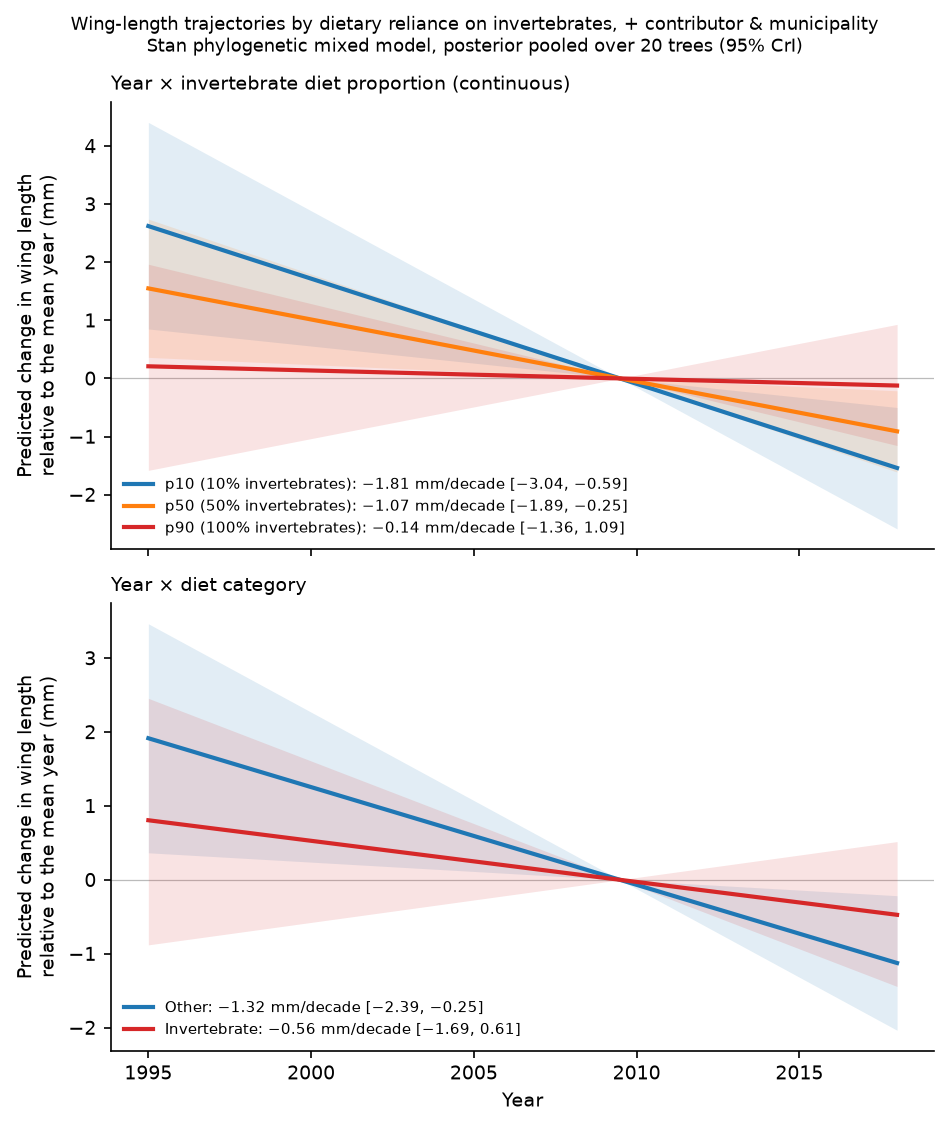
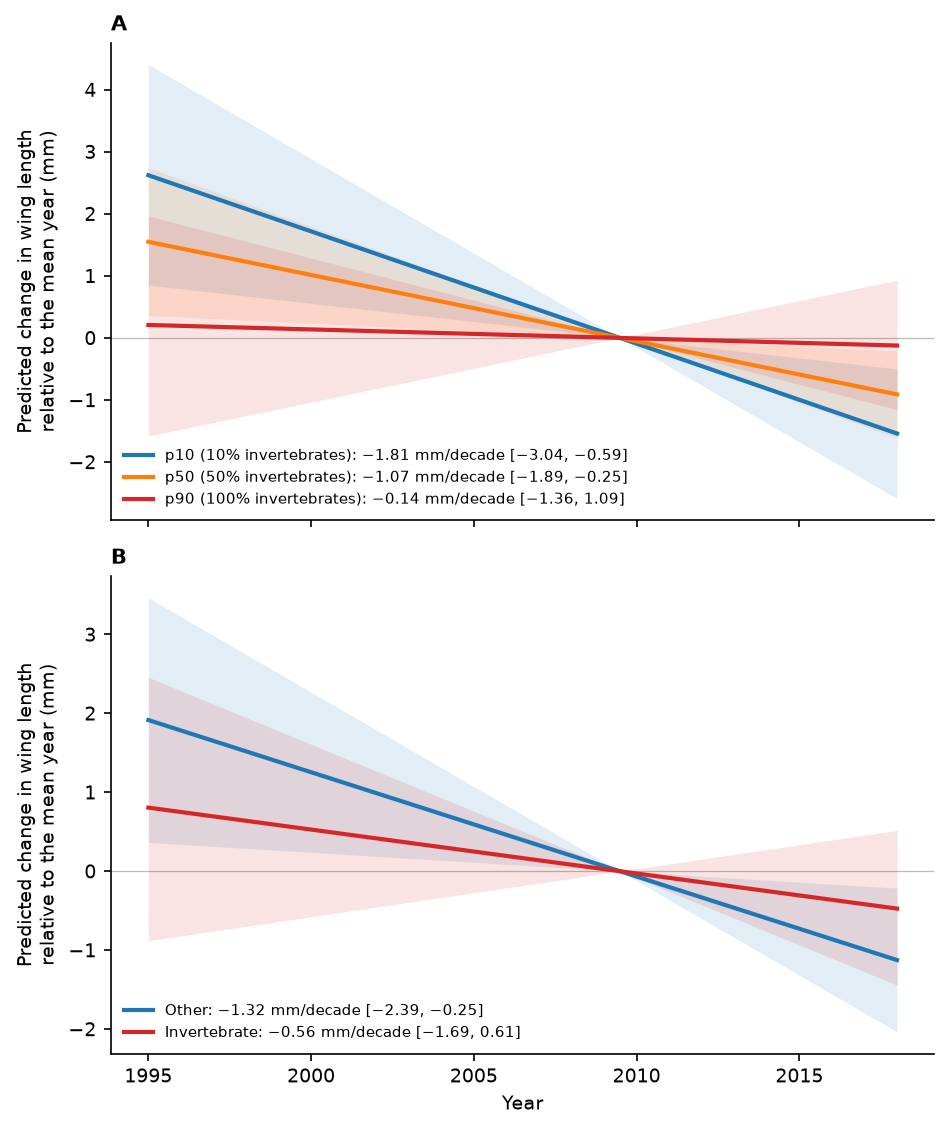
feat(manuscript): Oikos initial submission, anonymised build and first review fixes
Submission build (double-anonymised review):
- oikos-anon / oikos-title Quarto profiles; academic_doc_format.lua drops
  author and .title-page sections (contributions, funding, data statement,
  acknowledgements) from the manuscript and builds a separate title page
- oikos-reference.docx: double spacing, continuous line numbers
- supplementary author block stripped via strip_authors.lua; author fields
  blanked in docx core properties; render_oikos.sh builds all three files

Text (Shinichi's and the internal review's first block):
- title no longer claims "stability"
- Discussion opens with the key finding; Amazon hypotheses cut to one
  paragraph; "expected outcome" contradiction removed
- isometry: contrast implied by the separate fits reported and explained
- anomalous-block screen stated as post hoc; early/late periods defined as
  capture-year quartiles; AI statement reworded; fewer hedges
- H^2 notation, slenderisation defined, diet legend clarified

Figures: embedded titles removed (legends carry them); data unchanged.

diff --git a/Manuscript/make_figures.py b/Manuscript/make_figures.py
@@ -207,9 +207,6 @@ handles = [Line2D([0], [0], marker="o", color="none", markerfacecolor=UNIQUE, ma
 fig.legend(handles=handles, loc="lower center", ncol=3, frameon=False, fontsize=8, bbox_to_anchor=(0.5, -0.02))
 mun_sh, mun_n = S("municipality_wing.n_shared", int), S("municipality_wing.n_units", int)
 loc_sh, loc_n = S("locality_wing.n_shared", int), S("locality_wing.n_units", int)
-fig.suptitle(f"Sampling sites of {N_SPP} Atlantic Forest passerine species, early vs late period\n"
-             f"coordinate sites sampled in both periods: {n_shared_sites} of {len(sites)}; named localities {loc_sh} of {loc_n}; "
-             f"municipalities {mun_sh} of {mun_n}", fontsize=9.5, y=1.0)
 fig.savefig(f"{OUT}/fig-map.png", bbox_inches="tight"); plt.close(fig)
 print(f"fig-map: sites early {int((sites.n_early > 0).sum())}, late {int((sites.n_late > 0).sum())}, shared {n_shared_sites}")
 
@@ -307,8 +304,6 @@ else:
     print("WARNING: fig-wingtrend drawn WITHOUT model lines (controlled results missing)")
 ax.set_ylim(w.dev.quantile(.005), w.dev.quantile(.995)); ax.tick_params(labelbottom=False)
 ax.set_ylabel("Deviation from species × sex\nmean wing length (mm)")
-ax.set_title(f"Within-species-centred wing length, 1995–2018 (N = {len(w):,} records, {w.Binomial.nunique()} species)\n"
-             f"fitted year effects: {tier_label}", fontsize=9)
 ax.text(0.01, 0.98, "a", transform=ax.transAxes, fontweight="bold", va="top")
 # inset: wing records per year (top-left, where the early years have few extreme records)
 ins = ax.inset_axes([0.06, 0.70, 0.28, 0.27])
@@ -409,7 +404,6 @@ if sl is not None:
            f"median {neg(f'{d3.mm_per_decade.median():.2f}')} mm/decade")
     if m3:
         ttl += f"\nblue line/band: pooled M3 year effect {neg(f'{m3['mmd']:.2f}')} [{neg(f'{m3['mmd_lo']:.2f}')}, {neg(f'{m3['mmd_hi']:.2f}')}] mm/decade"
-    ax.set_title(ttl, fontsize=8.2, loc="left")
     handles = [Line2D([0], [0], marker="o", color=DEC, lw=0, label="negative slope"),
                Line2D([0], [0], marker="o", color=INC, lw=0, label="positive slope"),
                Line2D([0], [0], marker="o", color="none", markerfacecolor="white", markeredgecolor="black", label="interval includes zero"),
@@ -488,7 +482,7 @@ for ax, (metric, lab) in zip(axes, traits_fig4):
     ax.axvspan(mlo, mhi, color="#5B7FB5", alpha=0.18); ax.axvline(mu, color="#2E5090", lw=1.3)
     ax.set_yticks(y); ax.set_yticklabels([s.replace("_", " ") for s in t["sp"]], fontsize=4.2, style="italic")
     ax.set_xlabel("lnCVR (late vs early) · 95% CI")
-    ax.set_title(f"{lab}\nmeta-analytic mean = {mu:.2f} [{mlo:.2f}, {mhi:.2f}]", fontsize=9)
+    ax.set_title(lab, fontsize=9)
     print(f"{lab}: metafor mean {mu} [{mlo}, {mhi}]; python re-check {chk[0]:.3f} [{chk[1]:.3f}, {chk[2]:.3f}] (k={len(t)})")
 fig.tight_layout(); fig.savefig(f"{OUT}/fig-variability.png", bbox_inches="tight"); plt.close(fig)
 
@@ -521,9 +515,6 @@ for c, colr in zip(piv.columns, palette):
     bottom += piv[c].to_numpy()
 ax.set_ylabel("Wing-length records"); ax.set_xticks(years[::2]); ax.tick_params(labelbottom=False)
 n_span, n_contrib_w, rec_span = S("n_span_both_wing", int), S("n_wing_contributors", int), S("wing_records_from_spanners", int)
-ax.set_title(f"Wing records per year by contributor (Main_researcher; N = {int(piv.to_numpy().sum()):,} records, {n_contrib_w} contributors)\n"
-             f"† contributor with wing records in both 1995–{EARLY_MAX} and {LATE_MIN}–2018: {n_span} of {n_contrib_w} ({rec_span:,} records)",
-             fontsize=9)
 ax.legend(loc="upper left", fontsize=6.6, frameon=False, ncol=2, title="contributor", title_fontsize=7)
 ax2 = fig.add_subplot(gs[1], sharex=ax)
 ax2.bar(cpy.Year, cpy.n_contributors_wing, width=0.85, color="#6E6E6E")
@@ -553,9 +544,6 @@ for yr, n in nyr.items():
 ax.set_ylim(0, 1.16); ax.set_yticks([0, .25, .5, .75, 1]); ax.set_yticklabels(["0", "25", "50", "75", "100"])
 ax.set_ylabel("Share of wing records (%)"); ax.set_xlabel("Year"); ax.set_xticks(years[::2])
 p_right_early, p_generic_late = S("prop_right_early"), S("prop_generic_late")
-ax.set_title(f"Which wing column supplied the coalesced wing length, by year (numbers above bars = records)\n"
-             f"protocol proxy: {100 * p_right_early:.0f}% right-wing column in 1995–{EARLY_MAX} vs "
-             f"{100 * p_generic_late:.0f}% side-unspecified column in {LATE_MIN}–2018", fontsize=9)
 ax.legend(loc="upper center", bbox_to_anchor=(0.5, -0.14), ncol=3, frameon=False, fontsize=8, title="column populated", title_fontsize=8)
 fig.tight_layout(); fig.savefig(f"{OUT}/fig-s-wingcol.png", bbox_inches="tight"); plt.close(fig)
 note("fig-s-wingcol", "prop right early", p_right_early); note("fig-s-wingcol", "prop generic late", p_generic_late)
@@ -573,10 +561,10 @@ if dt is not None and {"continuous", "category"} <= set(dt.panel):
     n_trees_stan = S("stan_n_trees", int, default=None)
     yrs = np.linspace(1995, 2018, 50); dz = (yrs - YEAR_CENTRE) / 10
     panels = [("continuous", {"p10": "#1F77B4", "p50": "#FF7F0E", "p90": "#D62728"},
-               "Year × invertebrate diet proportion (continuous)",
+               "A",
                lambda r: f"{r.group} ({r.diet_inv:.0f}% invertebrates)"),
               ("category", {"Other": "#1F77B4", "Invertebrate": "#D62728"},
-               "Year × diet category", lambda r: r.group)]
+               "B", lambda r: r.group)]
     fig, axes = plt.subplots(2, 1, figsize=(6.4, 7.6), sharex=True)
     for ax, (pn, cols, ttl, labf) in zip(axes, panels):
         sub = dt[dt.panel == pn]
@@ -593,12 +581,9 @@ if dt is not None and {"continuous", "category"} <= set(dt.panel):
                 note("diet_interaction_plot", f"{pn} {g} {k}", float(r[k]))
         ax.axhline(0, color="#BBBBBB", lw=0.6, zorder=0)
         ax.set_ylabel("Predicted change in wing length\nrelative to the mean year (mm)")
-        ax.set_title(ttl, fontsize=9, loc="left")
+        ax.set_title(ttl, fontsize=10, fontweight="bold", loc="left")
         ax.legend(loc="lower left", frameon=False, fontsize=7)
     axes[1].set_xlabel("Year")
-    fig.suptitle("Wing-length trajectories by dietary reliance on invertebrates, + contributor & municipality\n"
-                 + (f"Stan phylogenetic mixed model, posterior pooled over {n_trees_stan} trees (95% CrI)"
-                    if n_trees_stan is not None else "Stan phylogenetic mixed model (95% CrI)"), fontsize=8.5)
     fig.tight_layout(); fig.savefig(f"{OUT}/diet_interaction_plot.png", bbox_inches="tight"); plt.close(fig)
     print("diet_interaction_plot: Stan diet slopes drawn")
 else:

diff --git a/Manuscript/make_isometry_figure.py b/Manuscript/make_isometry_figure.py
@@ -89,7 +89,7 @@ ax1.text(XL, 1.55, "Isometry contrast: > 0 = mass retained relative to wing", fo
 ax1.set_xlim(XL - 0.4, 12.0); ax1.set_ylim(-0.5, 5.2)
 ax1.set_yticks([]); ax1.spines["left"].set_visible(False)
 ax1.set_xlabel("Rate of change (% per decade) · posterior mean and 95% CrI", fontsize=8.8)
-ax1.set_title("A. Decadal rates and the isometry contrast", fontsize=10.5, fontweight="bold", loc="left", pad=10)
+ax1.set_title("A", fontsize=10.5, fontweight="bold", loc="left", pad=10)
 
 # ---------------------------------------------------------------------------
 # Panel B: bivariate state space
@@ -117,7 +117,7 @@ ax2.errorbar(w.pct_per_decade, m.pct_per_decade,
 n_decoupled = int(((spp.pct_per_decade_wing > 0) & (spp.pct_per_decade_mass < 0)).sum())
 ax2.set_xlabel("Wing length change (% per decade)", fontsize=8.8)
 ax2.set_ylabel("Body mass change (% per decade)", fontsize=8.8)
-ax2.set_title("B. Bivariate state space", fontsize=10.5, fontweight="bold", loc="left", pad=10)
+ax2.set_title("B", fontsize=10.5, fontweight="bold", loc="left", pad=10)
 ax2.legend(handles=[
     Line2D([0], [0], color="#1A202C", lw=1.8, label="strict isometry (y = 3x)"),
     Line2D([0], [0], color="#718096", lw=1.1, ls=":", label="equal rates (y = x)"),
@@ -127,8 +127,6 @@ ax2.legend(handles=[
            ms=5, label=f"species posterior means (n = {len(spp)}; {n_decoupled} in the shaded quadrant)")],
     loc="upper left", frameon=True, facecolor="white", framealpha=0.9, edgecolor="#E2E8F0", fontsize=7.0)
 
-fig.suptitle("Stan phylogenetic mixed models, fully adjusted (+ municipality)"
-             + (f"; posterior pooled over {n_trees} trees" if n_trees else ""), fontsize=8.5, y=1.0)
 plt.tight_layout()
 fig_path = os.path.join(OUT, "fig-isometry.png")
 fig.savefig(fig_path, bbox_inches="tight"); plt.close(fig)

diff --git a/Manuscript/strip_docx_author.py b/Manuscript/strip_docx_author.py
@@ -1,0 +1,15 @@
+"""Blank the author fields (dc:creator, cp:lastModifiedBy) in .docx core properties."""
+import re, shutil, sys, tempfile, zipfile
+
+for path in sys.argv[1:]:
+    tmp = tempfile.NamedTemporaryFile(delete=False, suffix=".docx").name
+    with zipfile.ZipFile(path) as zin, zipfile.ZipFile(tmp, "w", zipfile.ZIP_DEFLATED) as zout:
+        for item in zin.infolist():
+            data = zin.read(item.filename)
+            if item.filename == "docProps/core.xml":
+                xml = data.decode("utf-8")
+                for tag in ("dc:creator", "cp:lastModifiedBy"):
+                    xml = re.sub(rf"<{tag}>.*?</{tag}>", f"<{tag}></{tag}>", xml, flags=re.S)
+                data = xml.encode("utf-8")
+            zout.writestr(item, data)
+    shutil.move(tmp, path)
